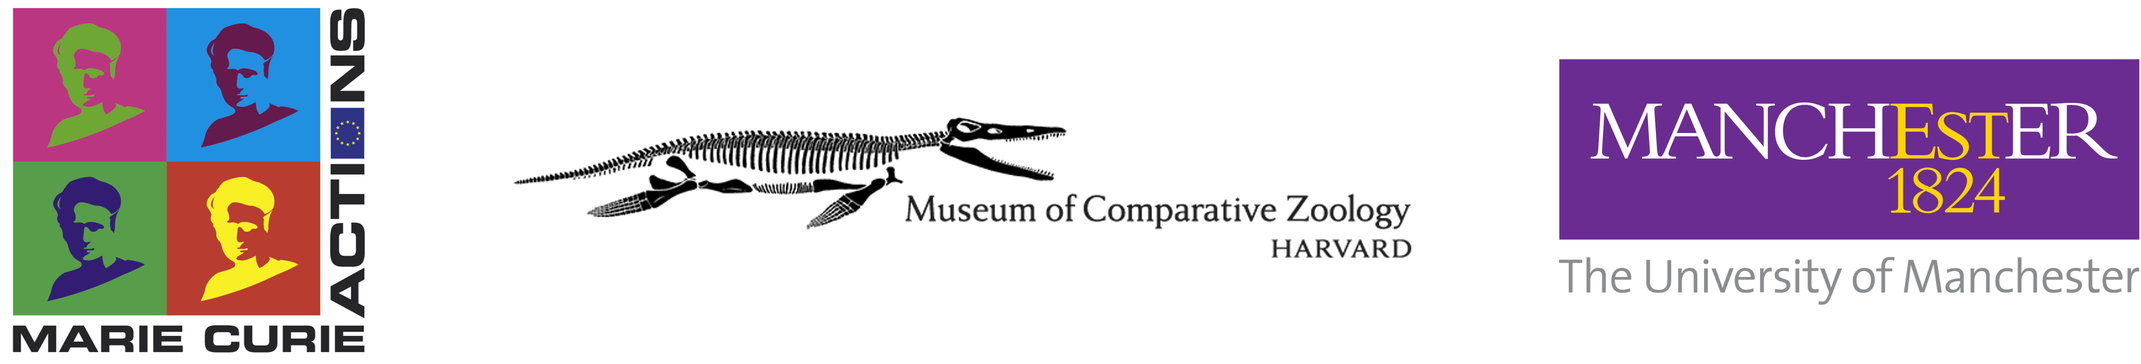
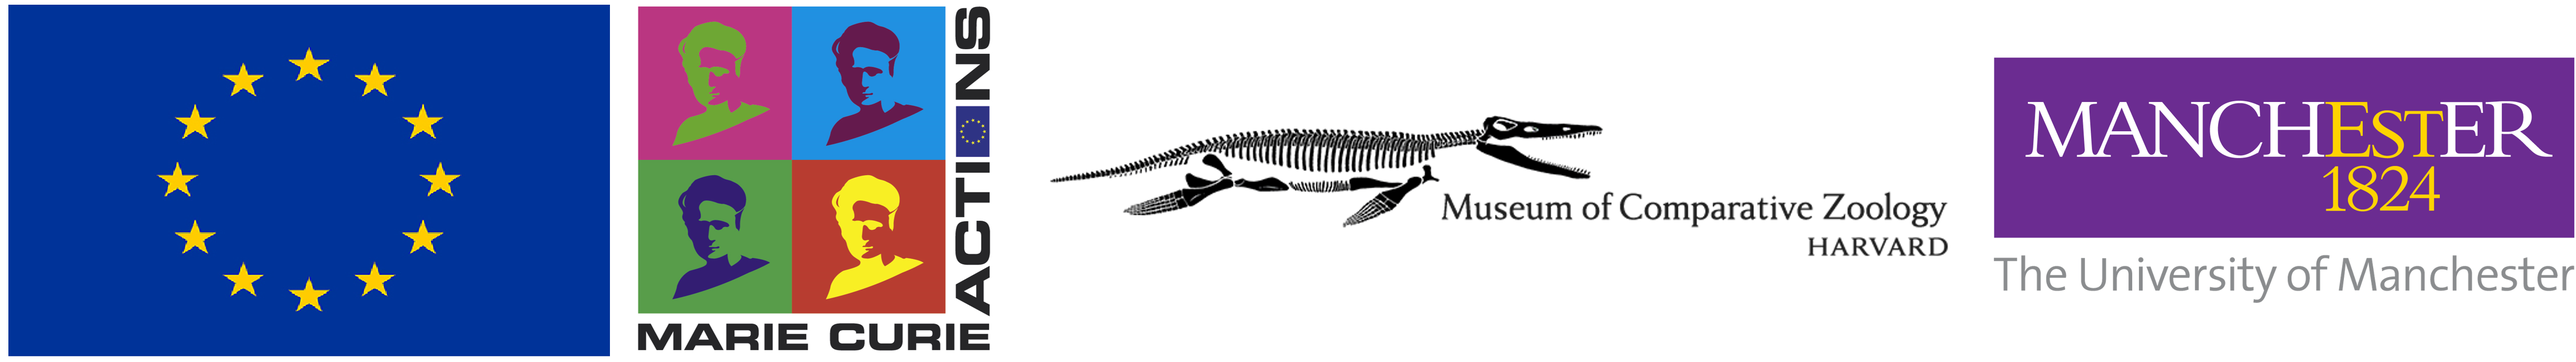
Recent talks

diff --git a/content/event/2023-08-31 - UMich Seminar/index.md b/content/event/2023-08-31 - UMich Seminar/index.md
@@ -1,0 +1,62 @@
+---
+title: 'Evolution and function of the vertebral column in aquatic mammals'
+
+event: Seminar for students and researchers of the University of Michigan Museum of Natural History
+#event_url: https://example.org
+
+location: Ann Arbor, MI, USA
+#address:
+ # street: 450 Serra Mall
+ # city: Stanford
+ # region: CA
+ # postcode: '94305'
+ # country: United States
+
+summary: Seminar for students and researchers of the University of Michigan Museum of Natural History
+# abstract: “”
+
+# Talk start and end times.
+#   End time can optionally be hidden by prefixing the line with `#`.
+date: "2023-08-31T12:00:00Z"
+#date_end: "2030-06-01T15:00:00Z"
+all_day: true
+
+# Schedule page publish date (NOT talk date).
+#publishDate: "2017-01-01T00:00:00Z"
+
+authors: [Gillet A.]
+tags: [Back2Sea]
+
+# Is this a featured talk? (true/false)
+featured: false
+
+image:
+ # caption: 'Image credit: [**Unsplash**](https://unsplash.com/photos/bzdhc5b3Bxs)'
+ # focal_point: Right
+
+# links:
+#- icon: twitter
+#  icon_pack: fab
+#  name: Follow
+#  url: https://twitter.com/georgecushen
+#url_code: ""
+#url_pdf: ""
+#url_slides: ""
+#url_video: ""
+
+# Markdown Slides (optional).
+#   Associate this talk with Markdown slides.
+#   Simply enter your slide deck's filename without extension.
+#   E.g. `slides = "example-slides"` references `content/slides/example-slides.md`.
+#   Otherwise, set `slides = ""`.
+slides: ""
+
+# Projects (optional).
+#   Associate this post with one or more of your projects.
+#   Simply enter your project's folder or file name without extension.
+#   E.g. `projects = ["internal-project"]` references `content/project/deep-learning/index.md`.
+#   Otherwise, set `projects = []`.
+projects: []
+
+
+---

diff --git a/content/event/2023-08-01 - ICVM/index.md b/content/event/2023-08-01 - ICVM/index.md
@@ -1,0 +1,62 @@
+---
+title: 'Functional regionalization of the backbone along the land-to-water transition in mammals'
+
+event: International Congress of Vertebrate Morphology 2023
+#event_url: https://example.org
+
+location: Cairns, QLD, Australia
+#address:
+ # street: 450 Serra Mall
+ # city: Stanford
+ # region: CA
+ # postcode: '94305'
+ # country: United States
+
+summary: Invited oral presentation at the 13th International Congress of Vertebrate Morphology
+# abstract: “”
+
+# Talk start and end times.
+#   End time can optionally be hidden by prefixing the line with `#`.
+date: "2023-08-01T12:00:00Z"
+#date_end: "2030-06-01T15:00:00Z"
+all_day: true
+
+# Schedule page publish date (NOT talk date).
+#publishDate: "2017-01-01T00:00:00Z"
+
+authors: [Gillet A.]
+tags: [Back2Sea]
+
+# Is this a featured talk? (true/false)
+featured: false
+
+image:
+ # caption: 'Image credit: [**Unsplash**](https://unsplash.com/photos/bzdhc5b3Bxs)'
+ # focal_point: Right
+
+# links:
+#- icon: twitter
+#  icon_pack: fab
+#  name: Follow
+#  url: https://twitter.com/georgecushen
+#url_code: ""
+#url_pdf: ""
+#url_slides: ""
+#url_video: ""
+
+# Markdown Slides (optional).
+#   Associate this talk with Markdown slides.
+#   Simply enter your slide deck's filename without extension.
+#   E.g. `slides = "example-slides"` references `content/slides/example-slides.md`.
+#   Otherwise, set `slides = ""`.
+slides: ""
+
+# Projects (optional).
+#   Associate this post with one or more of your projects.
+#   Simply enter your project's folder or file name without extension.
+#   E.g. `projects = ["internal-project"]` references `content/project/deep-learning/index.md`.
+#   Otherwise, set `projects = []`.
+projects: []
+
+
+---

diff --git a/content/event/2023-04-03 - MCZ seminar/index.md b/content/event/2023-04-03 - MCZ seminar/index.md
@@ -1,0 +1,62 @@
+---
+title: 'How to build a dolphin: Evolution and function of the backbone in aquatic mammals'
+
+event: Harvard Museum of Comparative Zoology Lunchtime Seminar
+#event_url: https://example.org
+
+location: Cambridge, MA, USA
+#address:
+ # street: 450 Serra Mall
+ # city: Stanford
+ # region: CA
+ # postcode: '94305'
+ # country: United States
+
+summary: Seminar for students and researchers of Harvard Museum of Comparative Zoology
+# abstract: “”
+
+# Talk start and end times.
+#   End time can optionally be hidden by prefixing the line with `#`.
+date: "2023-04-03T12:00:00Z"
+#date_end: "2030-06-01T15:00:00Z"
+all_day: true
+
+# Schedule page publish date (NOT talk date).
+#publishDate: "2017-01-01T00:00:00Z"
+
+authors: [Gillet A.]
+tags: [Back2Sea]
+
+# Is this a featured talk? (true/false)
+featured: false
+
+image:
+ # caption: 'Image credit: [**Unsplash**](https://unsplash.com/photos/bzdhc5b3Bxs)'
+ # focal_point: Right
+
+# links:
+#- icon: twitter
+#  icon_pack: fab
+#  name: Follow
+#  url: https://twitter.com/georgecushen
+#url_code: ""
+#url_pdf: ""
+#url_slides: ""
+#url_video: ""
+
+# Markdown Slides (optional).
+#   Associate this talk with Markdown slides.
+#   Simply enter your slide deck's filename without extension.
+#   E.g. `slides = "example-slides"` references `content/slides/example-slides.md`.
+#   Otherwise, set `slides = ""`.
+slides: ""
+
+# Projects (optional).
+#   Associate this post with one or more of your projects.
+#   Simply enter your project's folder or file name without extension.
+#   E.g. `projects = ["internal-project"]` references `content/project/deep-learning/index.md`.
+#   Otherwise, set `projects = []`.
+projects: []
+
+
+---

diff --git a/content/event/2023-10-21 - SICB NE/index.md b/content/event/2023-10-21 - SICB NE/index.md
@@ -1,0 +1,62 @@
+---
+title: 'To bend or not to bend: intervertebral flexibility in aquatic mammals'
+
+event: North-east regional conference of the Society for Integrative and Comparative Biology
+#event_url: https://example.org
+
+location: Medford, MA, USA
+#address:
+ # street: 450 Serra Mall
+ # city: Stanford
+ # region: CA
+ # postcode: '94305'
+ # country: United States
+
+summary: Oral presentation at North-east regional SICB 2023
+# abstract: “”
+
+# Talk start and end times.
+#   End time can optionally be hidden by prefixing the line with `#`.
+date: "2023-10-21T12:00:00Z"
+#date_end: "2030-06-01T15:00:00Z"
+all_day: true
+
+# Schedule page publish date (NOT talk date).
+#publishDate: "2017-01-01T00:00:00Z"
+
+authors: [Gillet A.]
+tags: [Back2Sea]
+
+# Is this a featured talk? (true/false)
+featured: false
+
+image:
+ # caption: 'Image credit: [**Unsplash**](https://unsplash.com/photos/bzdhc5b3Bxs)'
+ # focal_point: Right
+
+# links:
+#- icon: twitter
+#  icon_pack: fab
+#  name: Follow
+#  url: https://twitter.com/georgecushen
+#url_code: ""
+#url_pdf: ""
+#url_slides: ""
+#url_video: ""
+
+# Markdown Slides (optional).
+#   Associate this talk with Markdown slides.
+#   Simply enter your slide deck's filename without extension.
+#   E.g. `slides = "example-slides"` references `content/slides/example-slides.md`.
+#   Otherwise, set `slides = ""`.
+slides: ""
+
+# Projects (optional).
+#   Associate this post with one or more of your projects.
+#   Simply enter your project's folder or file name without extension.
+#   E.g. `projects = ["internal-project"]` references `content/project/deep-learning/index.md`.
+#   Otherwise, set `projects = []`.
+projects: []
+
+
+---

diff --git a/content/project/Back2Sea/index.md b/content/project/Back2Sea/index.md
@@ -58,6 +58,7 @@ To achieve this, Back2Sea quantifies form and function at the organismic scale u
 Analyses conducted in a broad phylogenetic and quantitative evolutionary context allow to address fundamental questions about the patterns and processes driving land-to-water transitions. 
 <br></br>
 {{< figure src="funding_MSCA.png" title="" >}}
+_This project has received funding from the European Union’s Horizon 2020 research and innovation programme under grant agreement No 101023931._
 
 
 ---
